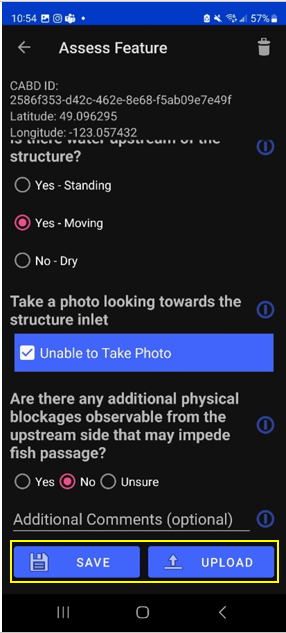
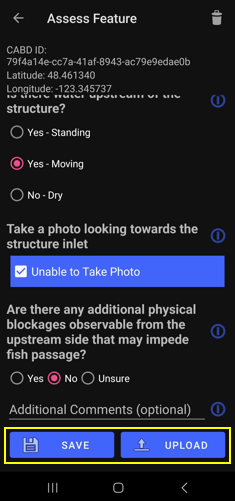
updated ios guides
updated android guide for release - updated text, screenshots and added download link

Changed region(s): [[0.0, 0.0, 1.0, 1.0], [0.8936, 0.1796, 0.983, 0.2695], [0.8936, 0.6287, 0.983, 0.6886]]

diff --git a/docs/source/docs_user/docs_user_app/android_user_guide.rst b/docs/source/docs_user/docs_user_app/android_user_guide.rst
@@ -4,15 +4,15 @@
 Android User Guide
 =============================
 
-The CABD has compiled information on dams, waterfalls, stream crossings, and fishways from over 800 data sources; however, there is still many missing structures and a need to fill in information gaps for the majority of existing points. To address these data gaps, tools are being developed to enable individuals across the country to contribute information to the CABD. The CABD Rapid Barrier Assessment Android mobile app is one such tool.
+The CABD has compiled information on dams, waterfalls, stream crossings, and fishways from over 800 data sources; however, there is still many missing structures and a need to fill in information gaps for the majority of existing points. To address these data gaps, tools are being developed to enable individuals across the country to contribute information to the CABD. The CANFISHPASS Android mobile app is one such tool.
 
 App Access and Installation
 ----------------------------
-You can download the mobile app (Aquatic Barrier Ranger) from the Google Play store. Once installed, the app will be accessible on your phone with the CWF logo as the app icon. 
+You can download the mobile app (CANFISHPASS) from the Google Play store. Once installed, the app will be accessible on your phone with the CWF logo as the app icon. 
 
-.. figure:: img/android_app_phone.png
+.. figure:: img/android_app_phone.jpg
     :align: center
-    :width: 20%
+    :width: 25%
 
 You are now ready to open and explore the app!
 
@@ -34,7 +34,7 @@ Once the app is downloaded and installed, you can open it from your device’s h
 
 .. figure:: img/android_email.png
     :align: center
-    :width: 20%
+    :width: 25%
 
 .. _interface-android:
 
@@ -45,13 +45,13 @@ Once you’ve navigated past the home screen, the main map space of the app will
 
 .. figure:: img/android_map_icons.png
     :align: center
-    :width: 30%
+    :width: 25%
 
 Press these three dots to refresh map features and view or manage your uploaded or cached features. (For more details, see :ref:`Using the Feature Cache to Upload Saved Assessment Submissions <feature-cache-android>`.)
 
 .. figure:: img/android_cached_features.png
     :align: center
-    :width: 20%
+    :width: 25%
 
 .. _app-toggles-android:
 
@@ -114,7 +114,7 @@ While there is currently no in-app legend, the color of each icon indicates the 
 
 .. figure:: img/android_feature_map.png
     :align: center
-    :width: 20%
+    :width: 25%
 
 Dams will always remain visible on the map, however, to improve app performance, stream crossings will automatically be hidden when you zoom out beyond a certain level. As you zoom back in, they will reappear (For more details, see :ref:`App Menu Toggles for more details <app-toggles-android>`). 
 
@@ -127,7 +127,7 @@ You’ll also notice a small black crosshair at the center of the screen (see im
 
 .. figure:: img/android_inset_map.png
     :align: center
-    :width: 20%
+    :width: 25%
 
 Once the cursor is aligned with a barrier point, a information box will appear at the bottom of the screen. This box displays the barrier ID, structure type, and passability status, along with an ‘ASSESS THIS FEATURE’ button.
 
@@ -147,30 +147,30 @@ To begin, align the app cursor with an existing barrier point, or move it to the
 
 **Assessing Existing Barriers**
 
-Once the cursor is aligned with an existing barrier point, an information box will appear at the bottom of the screen. This box displays the barrier ID, structure type, and passability status, along with an ‘Assess this Feature’ button (see image below).
+Once the cursor is aligned with an existing barrier point, an information box will appear at the bottom of the screen. This box displays the barrier ID, structure type, and passability status, along with an ‘ASSESS THIS FEATURE’ button (see image below).
 
-Tapping the ‘Assess this Feature’ button opens a form where you can complete the barrier assessment.
+Tapping the ‘ASSESS THIS FEATURE’ button opens a form where you can complete the barrier assessment.
 
 .. figure:: img/android_update.png
     :align: center
-    :width: 20%
+    :width: 25%
 
-To assess the selected barrier, tap the ‘Assess this Feature’ button. This will open the rapid assessment form.
+To assess the selected barrier, tap the ‘ASSESS THIS FEATURE’ button. This will open the rapid assessment form.
 
-The first question will ask, “This structure is currently identified as (either a dam or a modelled crossings), is this correct?
+The first question will ask, “This structure is currently identified as (either a dam or a stream crossing), is this correct?
 
 - If the default structure type is correct, simply tap ‘Yes’ to proceed.
 - If the structure type is incorrect, then tap ‘No/Unsure’.
 
 .. figure:: img/android_feature_form.png
     :align: center
-    :width: 20%
+    :width: 25%
 
 Regardless of whether the user selects ‘Yes’ or ‘No/Unsure’ for the question above, the follow-up question will be: "Are you able to acesss the site?" with options of ‘Yes’ or ‘No’
 
 .. figure:: img/android_access_site.png
     :align: center
-    :width: 20%
+    :width: 25%
 
 Once these questions are responded to, an additional set of assessment questions and photo prompts specific to that structure type or accessibilty status will appear.
 
@@ -184,7 +184,7 @@ Each sub-type includes a unique set of questions, so be sure to select the corre
 
 .. figure:: img/android_form.png
     :align: center
-    :width: 20%
+    :width: 25%
 
 .. _adding-assessing-new-barriers-android:
 
@@ -216,7 +216,7 @@ Once a new barrier assessment has been saved or uploaded, a black feature point 
 
 .. figure:: img/android_new_features.png
     :align: center
-    :width: 20%
+    :width: 25%
 
 **Notes of Completing the Barrier Assessment Forms**
 
@@ -230,7 +230,7 @@ Once you’ve completed all the questions in the assessment form, you’re ready
 
 .. figure:: img/android_save.png
     :align: center
-    :width: 20%
+    :width: 25%
 
 Tapping the ‘SAVE’ button will store the assessment information you’ve entered so that you can manually upload it later. It’s important to note that saving does not upload the assessment to the database. When an assessment is saved, the associated feature point will appear on the map with a yellow halo (see image below). You can reopen a saved form at any time to review or edit the content before choosing to either save it again or upload it. The ‘SAVE’ function works whether you’re online or offline, including when connected to Wi-Fi, using cellular data, or with no service at all.
 
@@ -238,11 +238,11 @@ The ‘UPLOAD’ button, on the other hand, will both save and immediately uploa
 
 .. figure:: img/android_save_feature.png
     :align: center
-    :width: 20%
+    :width: 25%
 
 .. figure:: img/android_upload_feature.png
     :align: center
-    :width: 20%
+    :width: 25%
 
 .. _feature-cache-android:    
 
@@ -254,7 +254,7 @@ To upload multiple saved assessments at once, use the feature cache. You can acc
 
 .. figure:: img/android_upload.png
     :align: center
-    :width: 40%
+    :width: 50%
 
 In the feature cache, you’ll also find a ‘DELETE ALL’ button. This function will remove all saved and uploaded assessment features from the map — including their yellow and green halos — and delete all saved assessment form data stored locally in the app. Importantly, this action does not delete any information from the database.
 

diff --git a/docs/source/docs_user/docs_user_app.rst b/docs/source/docs_user/docs_user_app.rst
@@ -15,7 +15,7 @@ CANFISHPASS App
 
 The Canadian Wildlife Federation (CWF) has developed the Canadian Fish Passage Assessment (CANFISHPASS) mobile app to help improve the Canadian Aquatic Barriers Database (CABD)—Canada’s centralized, open-access resource for data on aquatic structures like dams, stream crossings, waterfalls, and fishways—and engage Canadians and local communities in action to help support freshwater conservation and restoration. 
 
-The CABD app can be downloaded for Android or iOS devices. 
+The CABD app can be downloaded for `Android <https://play.google.com/store/apps/details?id=com.foundry.cabdapp>`_ or iOS devices. 
 
 .. note::
     
